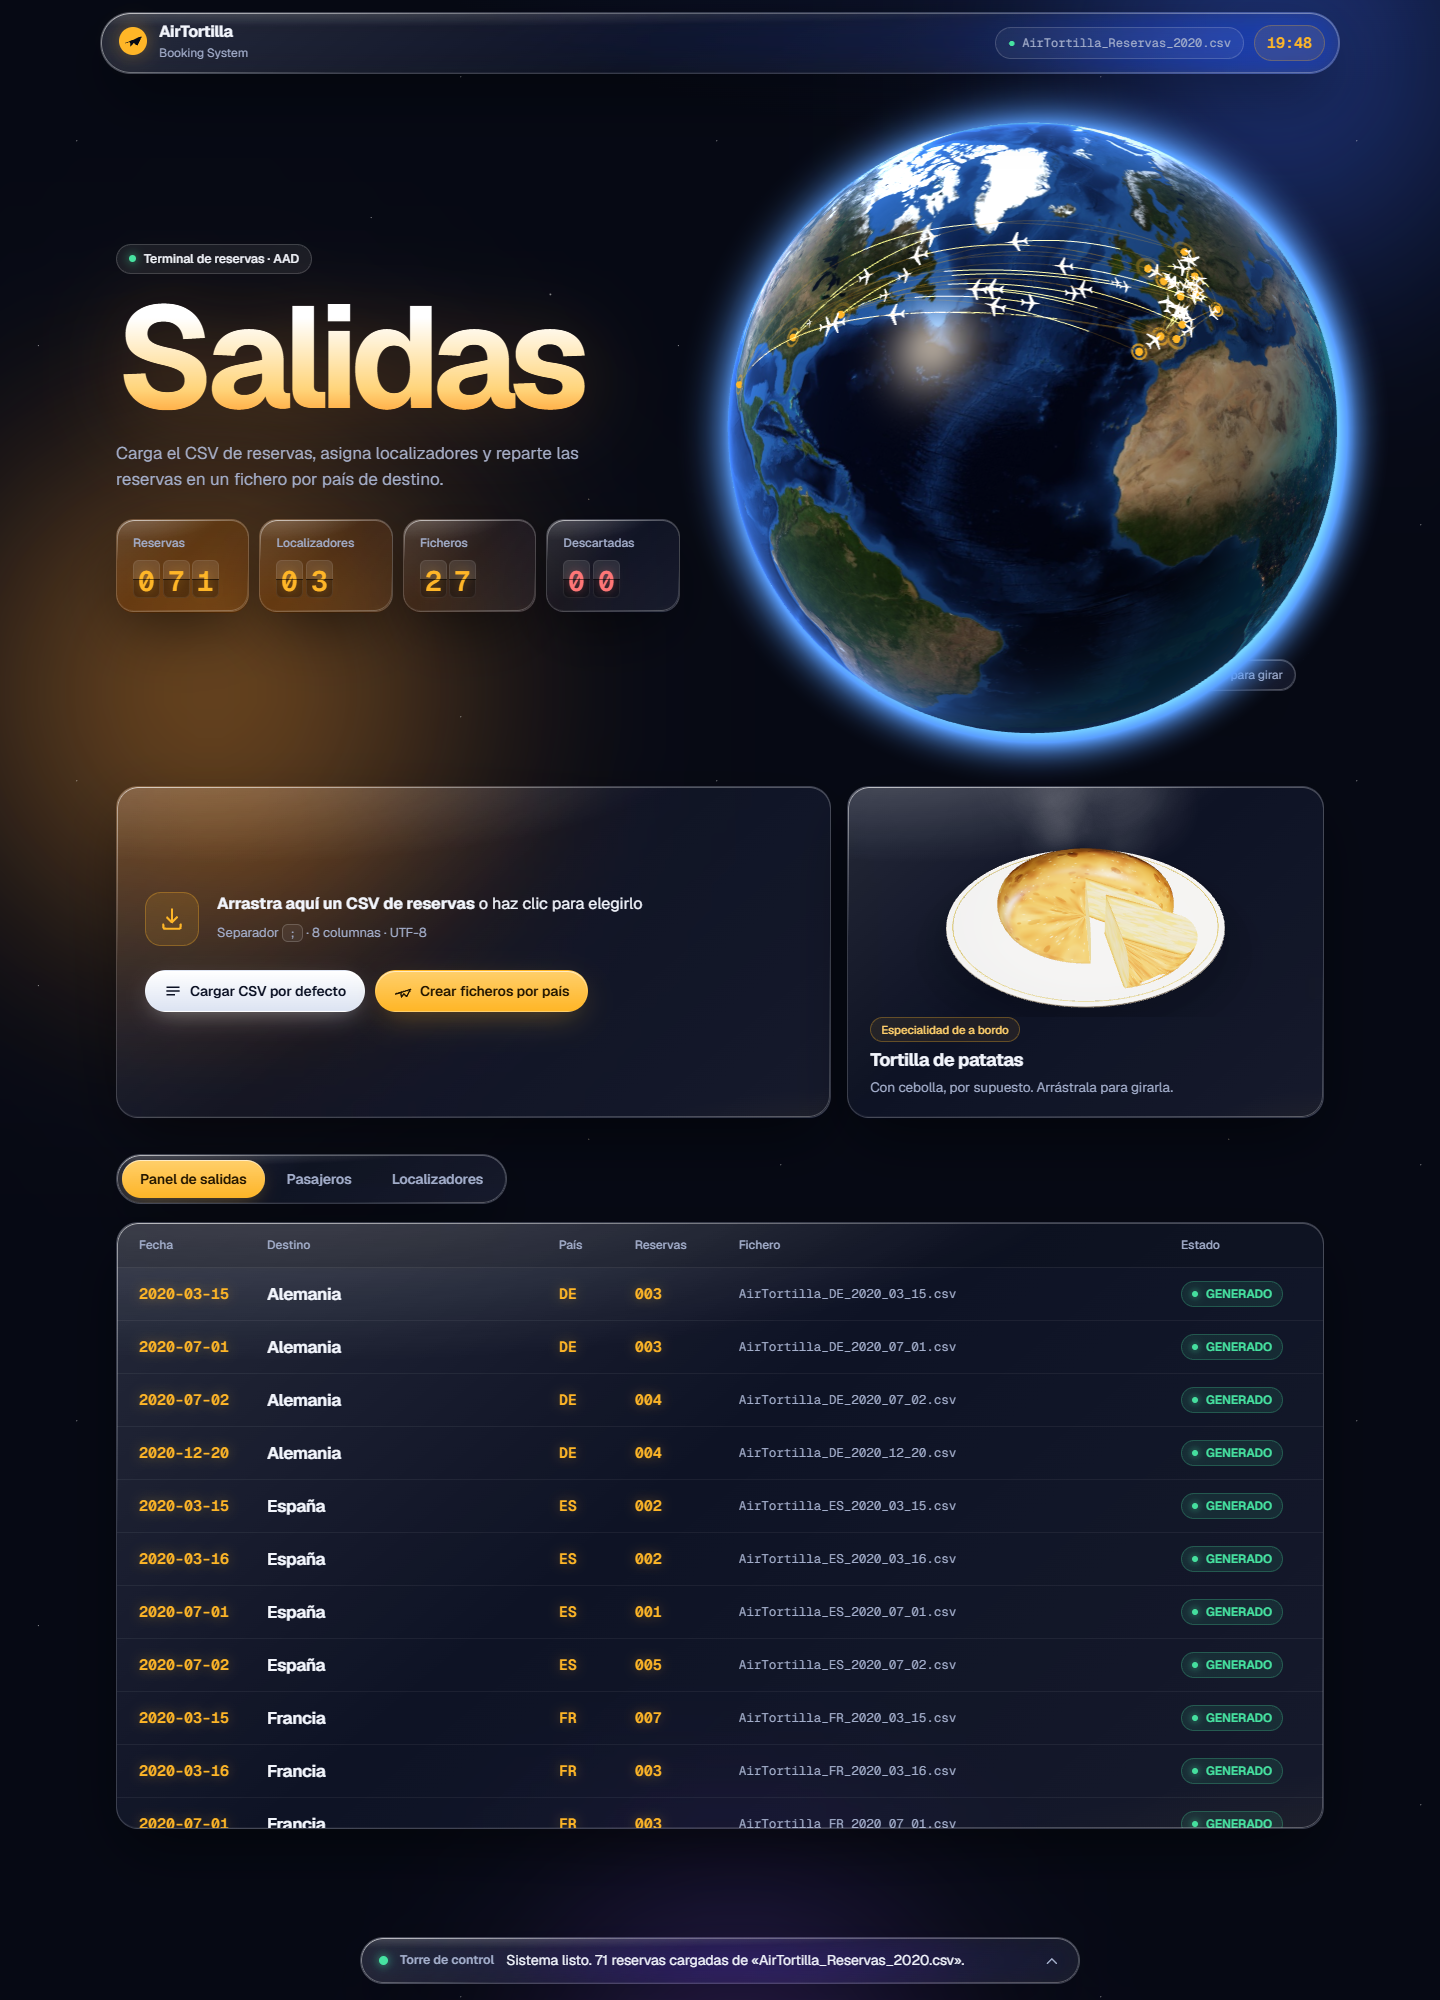
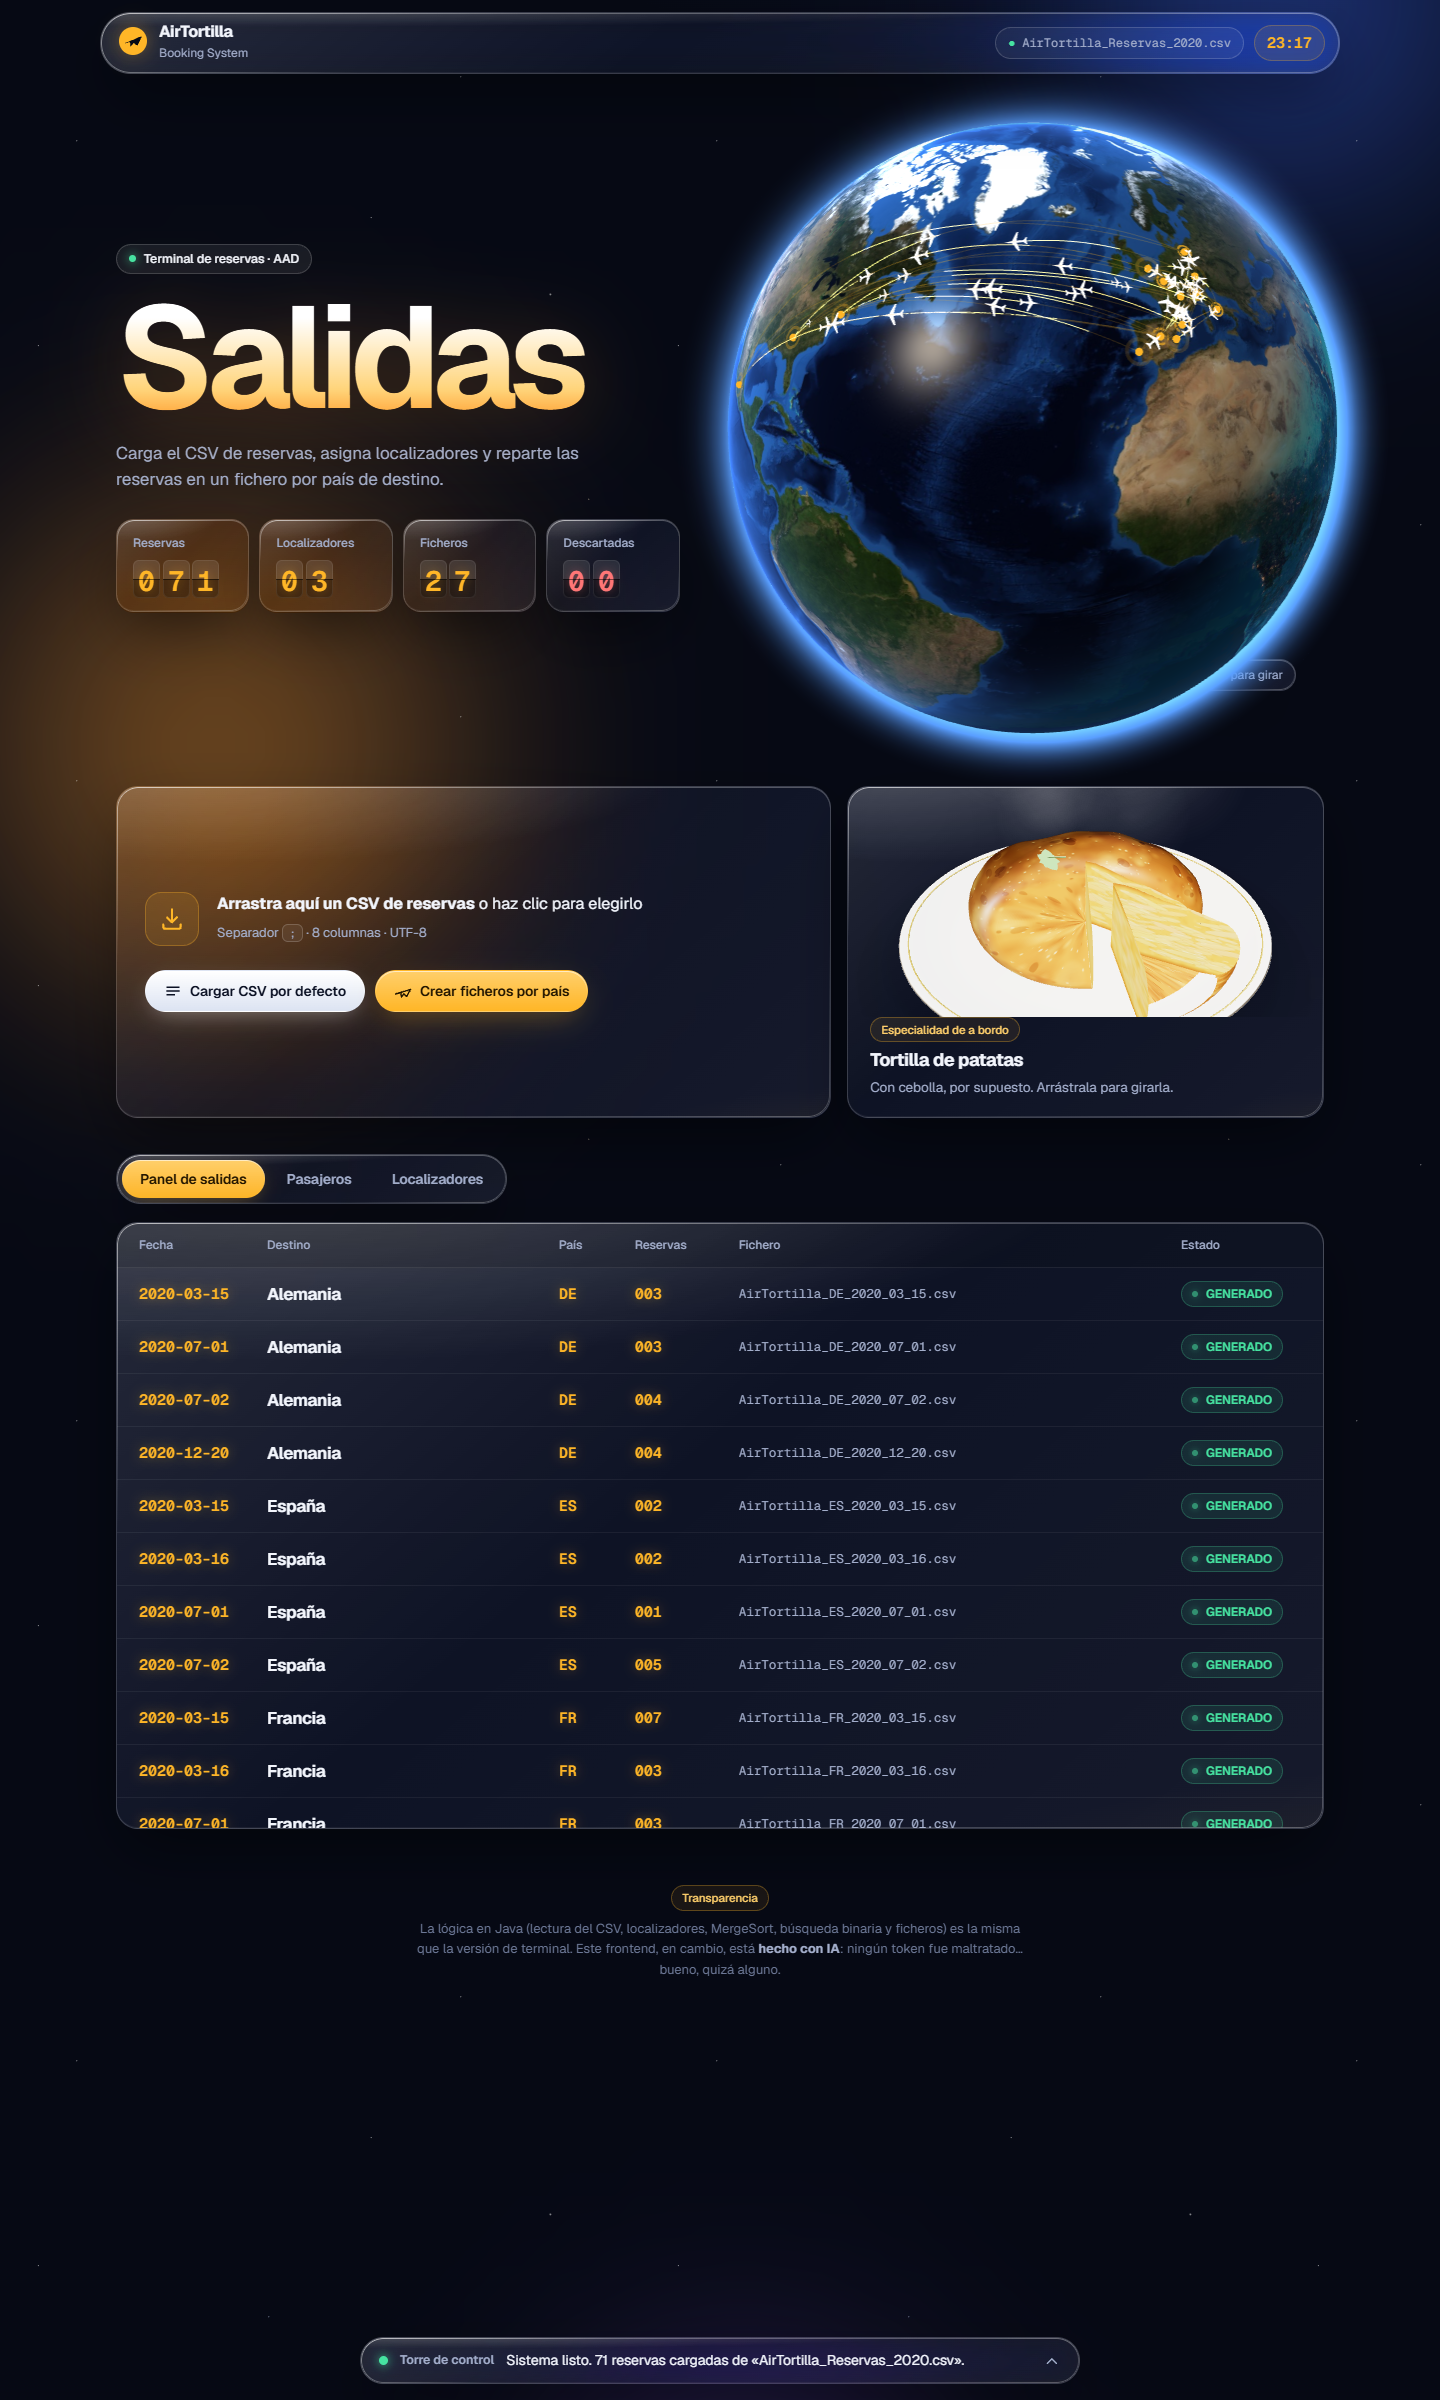
Últimos retoques y interfaz acabada.

diff --git a/AirTortilla/src/main/resources/static/js/tortilla.js b/AirTortilla/src/main/resources/static/js/tortilla.js
@@ -18,8 +18,15 @@
     const c = document.createElement("canvas");
     c.width = 1024; c.height = 512;
     const ctx = c.getContext("2d");
-    ctx.fillStyle = "#c98b2c";
+    ctx.fillStyle = "#c4842a";
     ctx.fillRect(0, 0, c.width, c.height);
+    // El canto (franja central de la textura) sale más tostado que la cara de arriba
+    const canto = ctx.createLinearGradient(0, 100, 0, 370);
+    canto.addColorStop(0, "rgba(120,60,15,0)");
+    canto.addColorStop(0.5, "rgba(120,60,15,0.55)");
+    canto.addColorStop(1, "rgba(120,60,15,0)");
+    ctx.fillStyle = canto;
+    ctx.fillRect(0, 100, c.width, 270);
     // Manchas tostadas de distintos tamaños
     for (let i = 0; i < 900; i++) {
       const x = azar() * c.width, y = azar() * c.height, r = 4 + azar() * 38;
@@ -51,14 +58,14 @@
     const c = document.createElement("canvas");
     c.width = 512; c.height = 256;
     const ctx = c.getContext("2d");
-    ctx.fillStyle = "#f0cd5c";
+    ctx.fillStyle = "#e9b53a";
     ctx.fillRect(0, 0, c.width, c.height);
     // Huevo jugoso con variaciones
     for (let i = 0; i < 300; i++) {
       const x = azar() * c.width, y = azar() * c.height, r = 6 + azar() * 24;
       const g = ctx.createRadialGradient(x, y, 0, x, y, r);
-      g.addColorStop(0, `rgba(${azar() < 0.5 ? "232,182,60" : "250,222,120"},0.45)`);
-      g.addColorStop(1, "rgba(240,205,92,0)");
+      g.addColorStop(0, `rgba(${azar() < 0.5 ? "214,150,35" : "246,204,90"},0.5)`);
+      g.addColorStop(1, "rgba(233,181,58,0)");
       ctx.fillStyle = g;
       ctx.fillRect(x - r, y - r, r * 2, r * 2);
     }
@@ -71,9 +78,9 @@
         ctx.save();
         ctx.translate(x, y);
         ctx.rotate((azar() - 0.5) * 0.35);
-        ctx.fillStyle = `rgba(${248 - azar() * 12},${234 - azar() * 18},${170 - azar() * 30},0.95)`;
+        ctx.fillStyle = `rgba(${246 - azar() * 10},${218 - azar() * 18},${128 - azar() * 30},0.92)`;
         ctx.beginPath(); ctx.ellipse(0, 0, w, h, 0, 0, Math.PI * 2); ctx.fill();
-        ctx.strokeStyle = "rgba(200,160,70,0.5)";
+        ctx.strokeStyle = "rgba(190,140,50,0.55)";
         ctx.lineWidth = 1.2;
         ctx.stroke();
         ctx.restore();
@@ -105,13 +112,13 @@
   // ---------- Escena ----------
   const escena = new THREE.Scene();
   const camara = new THREE.PerspectiveCamera(30, 1, 0.1, 50);
-  camara.position.set(0, 2.0, 3.2);
+  camara.position.set(0, 2.3, 3.7);
   camara.lookAt(0, -0.05, 0);
   const render = new THREE.WebGLRenderer({ antialias: true, alpha: true });
   render.setPixelRatio(Math.min(window.devicePixelRatio, 2));
   render.outputEncoding = THREE.sRGBEncoding;
   render.toneMapping = THREE.ACESFilmicToneMapping;
-  render.toneMappingExposure = 1.05;
+  render.toneMappingExposure = 0.95;
   cont.appendChild(render.domElement);
 
   // Sin mapa de entorno (PMREM falla en algunas gráficas): los brillos salen de las luces
@@ -146,10 +153,10 @@
 
   // ---------- Tortilla ----------
   // Perfil: de arriba (centro) al borde redondeado y a la base
-  const R = 1, H = 0.24;
+  const R = 1, H = 0.26;
   const perfil = [];
-  perfil.push(new THREE.Vector2(0, H + 0.03));
-  for (let i = 1; i <= 8; i++) perfil.push(new THREE.Vector2((R - 0.2) * i / 8, H + 0.03 * (1 - (i / 8) ** 2)));
+  perfil.push(new THREE.Vector2(0, H + 0.07));
+  for (let i = 1; i <= 8; i++) perfil.push(new THREE.Vector2((R - 0.2) * i / 8, H + 0.07 * (1 - (i / 8) ** 2)));
   for (let i = 1; i <= 14; i++) { // borde redondeado
     const a = Math.PI / 2 - (i / 14) * Math.PI;
     perfil.push(new THREE.Vector2(R - 0.2 + 0.2 * Math.cos(a), H * Math.sin(a) * 1.0));
@@ -180,23 +187,68 @@
     const g = new THREE.ShapeGeometry(s, 24);
     // Coordenadas UV para que la textura interior cubra la cara
     const pos = g.attributes.position, uv = g.attributes.uv;
-    for (let i = 0; i < pos.count; i++) uv.setXY(i, pos.getX(i) / R, (pos.getY(i) + H) / (2 * H + 0.03));
+    for (let i = 0; i < pos.count; i++) uv.setXY(i, pos.getX(i) / R, (pos.getY(i) + H) / (2 * H + 0.07));
     g.rotateY(angulo - Math.PI / 2);
     return new THREE.Mesh(g, matInterior);
+  }
+
+  /** Abolla la parte de arriba para que no sea perfectamente lisa (igual en la costra y en los cortes). */
+  function abollar(geo) {
+    const pos = geo.attributes.position;
+    for (let i = 0; i < pos.count; i++) {
+      const x = pos.getX(i), y = pos.getY(i), z = pos.getZ(i);
+      if (y <= 0) continue;
+      const peso = Math.min(1, y / H); // nada en la base, todo arriba
+      const bulto = Math.sin(x * 5.1 + 1.3) * Math.cos(z * 4.3) * 0.022
+        + Math.sin((x + z) * 9.7) * 0.008 + Math.cos(x * 13.1 - z * 11.3) * 0.004;
+      pos.setY(i, y + bulto * peso);
+    }
+    geo.computeVertexNormals();
+    return geo;
   }
 
   /** Una porción de tortilla entre dos ángulos, con sus dos caras de corte. */
   function porcion(desde, abertura) {
     const grupo = new THREE.Group();
-    grupo.add(new THREE.Mesh(new THREE.LatheGeometry(perfil, 128, desde, abertura), matCostra));
-    grupo.add(caraCorte(desde));
-    grupo.add(caraCorte(desde + abertura));
+    grupo.add(new THREE.Mesh(abollar(new THREE.LatheGeometry(perfil, 128, desde, abertura)), matCostra));
+    [desde, desde + abertura].forEach((a) => {
+      const cara = caraCorte(a);
+      abollar(cara.geometry);
+      grupo.add(cara);
+    });
+    return grupo;
+  }
+
+  /** Ramita de perejil para decorar. */
+  function perejil() {
+    const grupo = new THREE.Group();
+    const verde = new THREE.MeshStandardMaterial({ color: 0x2f7d2a, roughness: 0.5, side: THREE.DoubleSide });
+    const hoja = new THREE.Shape();
+    hoja.moveTo(0, 0);
+    hoja.bezierCurveTo(0.05, 0.03, 0.07, 0.09, 0, 0.14);
+    hoja.bezierCurveTo(-0.07, 0.09, -0.05, 0.03, 0, 0);
+    const geoHoja = new THREE.ShapeGeometry(hoja, 8);
+    for (let i = 0; i < 7; i++) {
+      const h = new THREE.Mesh(geoHoja, verde);
+      const a = (i / 7) * Math.PI * 2;
+      h.position.set(Math.cos(a) * 0.03, 0, Math.sin(a) * 0.03);
+      h.rotation.set(-Math.PI / 2 + 0.35, 0, -a + Math.PI / 2);
+      h.scale.setScalar(0.8 + (i % 3) * 0.15);
+      grupo.add(h);
+    }
+    const tallo = new THREE.Mesh(new THREE.CylinderGeometry(0.006, 0.008, 0.18, 6), new THREE.MeshStandardMaterial({ color: 0x4a8f35 }));
+    tallo.rotation.z = Math.PI / 2.4;
+    tallo.position.set(0.08, 0.01, 0);
+    grupo.add(tallo);
     return grupo;
   }
 
   const HUECO = 0.95; // ángulo del trozo cortado
   const tortilla = porcion(HUECO / 2, Math.PI * 2 - HUECO);
   conjunto.add(tortilla);
+  const ramita = perejil();
+  ramita.position.set(-0.25, H + 0.08, -0.2);
+  conjunto.add(ramita);
   // El trozo servido, un poco separado
   const trozo = porcion(-HUECO / 2, HUECO);
   trozo.position.set(0, 0.0, 0.42);

diff --git a/AirTortilla/src/main/resources/static/index.html b/AirTortilla/src/main/resources/static/index.html
@@ -157,6 +157,12 @@
     <div class="empty" id="grupos-empty"><b>Sin localizadores</b><span>Aparecen cuando 2 o más reservas coinciden en nombre, origen y destino.</span></div>
   </section>
 
+  <footer class="credito">
+    <span class="badge small">Transparencia</span>
+    <p>La lógica en Java (lectura del CSV, localizadores, MergeSort, búsqueda binaria y ficheros) es la misma que la versión de terminal.
+      Este frontend, en cambio, está <b>hecho con IA</b>: ningún token fue maltratado… bueno, quizá alguno.</p>
+  </footer>
+
 </main>
 
 <!-- Visor de ficheros -->

diff --git a/AirTortilla/src/main/resources/static/css/app.css b/AirTortilla/src/main/resources/static/css/app.css
@@ -374,3 +374,8 @@ canvas.despegue.activo { opacity: 1; }
 @media (prefers-reduced-motion: reduce) {
   *, *::before, *::after { animation: none !important; transition: none !important; }
 }
+
+/* ---------- Nota sobre el uso de IA ---------- */
+.credito { display: grid; justify-items: center; gap: 8px; margin: 56px auto 0; max-width: 62ch; text-align: center; }
+.credito p { margin: 0; color: var(--subtle); font-size: 13px; line-height: 1.6; }
+.credito b { color: var(--muted); }

diff --git a/AirTortilla/src/main/java/com/airtortilla/Main.java b/AirTortilla/src/main/java/com/airtortilla/Main.java
@@ -13,11 +13,13 @@ import java.nio.file.Path;
 import java.util.ArrayList;
 import java.util.Arrays;
 import java.util.List;
+import java.util.Scanner;
 
 /**
  * Punto de entrada. Elige la interfaz según los argumentos:
  * <ul>
- *   <li>(sin argumentos) interfaz web en http://localhost:8080</li>
+ *   <li>(sin argumentos) menú para elegir entre terminal y web</li>
+ *   <li>{@code --web} interfaz web en http://localhost:8080</li>
  *   <li>{@code --swing} ventana de escritorio</li>
  *   <li>{@code --consola} menú de terminal</li>
  * </ul>
@@ -36,8 +38,42 @@ public class Main {
             arrancarEscritorio(args, true);
         } else if (lista.contains("--swing")) {
             arrancarEscritorio(args, false);
+        } else if (lista.contains("--web")) {
+            AirTortillaWebApp.arrancar(args);
+        } else if (elegirVersion() == 1) {
+            arrancarEscritorio(args, true);
         } else {
             AirTortillaWebApp.arrancar(args);
+        }
+    }
+
+    /**
+     * Pregunta qué versión arrancar antes de empezar.
+     *
+     * @return 1 para la terminal, 2 para la web
+     */
+    private static int elegirVersion() {
+        System.out.println();
+        System.out.println("  ╔══════════════════════════════════════════════════════════════╗");
+        System.out.println("  ║               AirTortilla Booking System · AAD               ║");
+        System.out.println("  ╠══════════════════════════════════════════════════════════════╣");
+        System.out.println("  ║  1. Versión clásica: terminal                                ║");
+        System.out.println("  ║     (sosa, pero cumple todo el enunciado)                    ║");
+        System.out.println("  ║                                                              ║");
+        System.out.println("  ║  2. Versión para atrevidos: web 3D                           ║");
+        System.out.println("  ║     (devoradora de tokens · frontend hecho con IA)           ║");
+        System.out.println("  ╚══════════════════════════════════════════════════════════════╝");
+        Scanner sc = new Scanner(System.in);
+        while (true) {
+            System.out.print("  Elige versión (1/2): ");
+            if (!sc.hasNextLine()) return 2;
+            String opcion = sc.nextLine().trim();
+            if (opcion.equals("1")) return 1;
+            if (opcion.equals("2")) {
+                System.out.println("  Despegando… se abrirá el navegador en http://localhost:8080");
+                return 2;
+            }
+            System.out.println("  Opción no válida.");
         }
     }
 

diff --git a/AirTortilla/README.md b/AirTortilla/README.md
@@ -22,14 +22,17 @@ Aplicación web en Java (Spring Boot) que lee las reservas de AirTortilla desde 
    (la primera vez tarda un poco; si no lo hace solo, pulsa el icono de Maven ⟳ *Reload*).
 2. Copiar el CSV de datos en `data/AirTortilla_Reservas_2020.csv` (no está en el repo; ver formato abajo).
    También se puede **arrastrar cualquier CSV** a la página.
-3. Ejecutar `com.airtortilla.Main` (botón ▶ junto al `main`). Arranca el servidor y se abre el navegador en
-   **http://localhost:8080**. Para pararlo, el botón ■ rojo de IntelliJ.
+3. Ejecutar `com.airtortilla.Main` (botón ▶ junto al `main`). En la consola de IntelliJ aparece un menú para elegir versión:
+   - **1 · Versión clásica (terminal)**: el menú de texto de la v1.0.
+   - **2 · Versión para atrevidos (web 3D)**: arranca el servidor y abre el navegador en **http://localhost:8080**.
+     Para pararlo, el botón ■ rojo de IntelliJ.
 
 Argumentos opcionales:
 
 | Argumentos | Interfaz |
 |---|---|
-| *(ninguno)* | Web en http://localhost:8080 |
+| *(ninguno)* | Menú para elegir entre terminal (1) y web (2) |
+| `--web` | Web en http://localhost:8080, sin preguntar |
 | `--swing [ficheroEntrada] [carpetaSalida]` | Ventana de escritorio Swing |
 | `--consola [ficheroEntrada] [carpetaSalida]` | Menú de terminal |
 
@@ -216,4 +219,6 @@ sin cambiar la lógica de ningún servicio. Las tres interfaces siguen funcionan
 |---|---|---|
 | 1.0.0 | 2026-10-14 | Primera entrega: lectura de CSV, localizadores, ficheros por país de destino, consulta total y línea a línea, ordenación y búsqueda. Stack: Java 21 + consola + ficheros. |
 | 1.1.0 | 2026-10-14 | **Migración de interfaz: terminal → interfaz gráfica nativa (Swing).** Nueva clase `VentanaPrincipal` con pestañas de reservas y ficheros, y panel de feedback. La consola se mantiene con `--consola`. Los servicios no cambian; solo se añade `ConsultaFicheros.abrir()` para la lectura línea a línea desde botones. |
-| 2.0.0 | 2026-10-14 | **Migración de interfaz: escritorio → web.** Se añade Spring Boot: `AirTortillaWebApp` arranca un servidor en localhost:8080 y `ReservaController` expone una API REST en JSON. Página nueva en HTML/CSS/JS con estética de aeropuerto, globo 3D con Three.js, subida de CSV por arrastre y visor de ficheros. La web pasa a ser la interfaz por defecto; Swing (`--swing`) y consola (`--consola`) se mantienen. En los servicios solo se añade `ReservaService.getGruposLocalizador()`. |
+| 2.0.0 | 2026-10-14 | **Migración de interfaz: escritorio → web.** Se añade Spring Boot: `AirTortillaWebApp` arranca un servidor en localhost:8080 y `ReservaController` expone una API REST en JSON. Página nueva en HTML/CSS/JS con estética de aeropuerto, globo 3D con Three.js, subida de CSV por arrastre y visor de ficheros. Al arrancar se elige entre la terminal y la web; Swing (`--swing`) se mantiene. En los servicios solo se añade `ReservaService.getGruposLocalizador()`. |
+
+> **Nota sobre el uso de IA:** el frontend web (HTML, CSS, JavaScript y escenas 3D con Three.js) se ha desarrollado con ayuda de IA. Así lo indican también el menú de inicio y el pie de la página.
